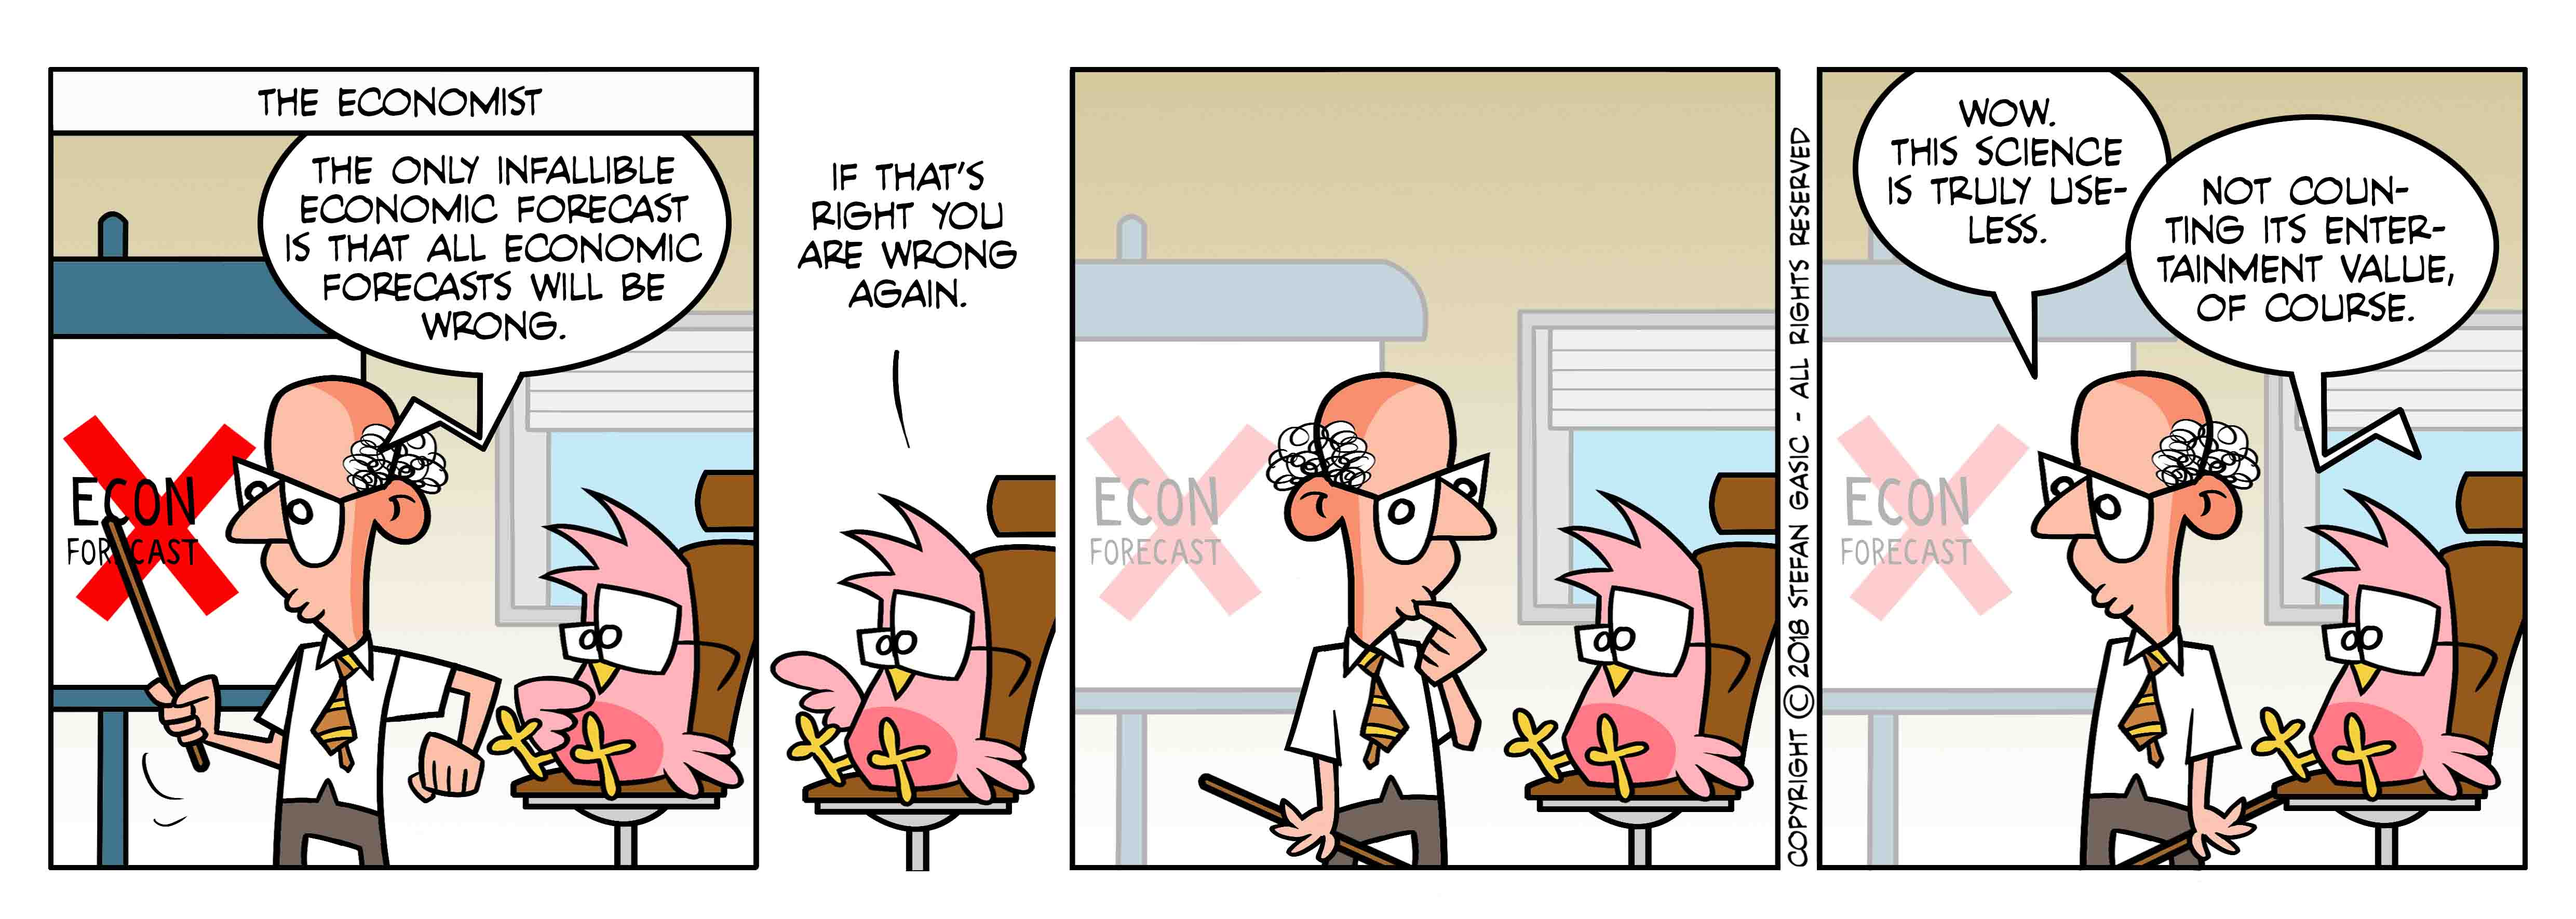
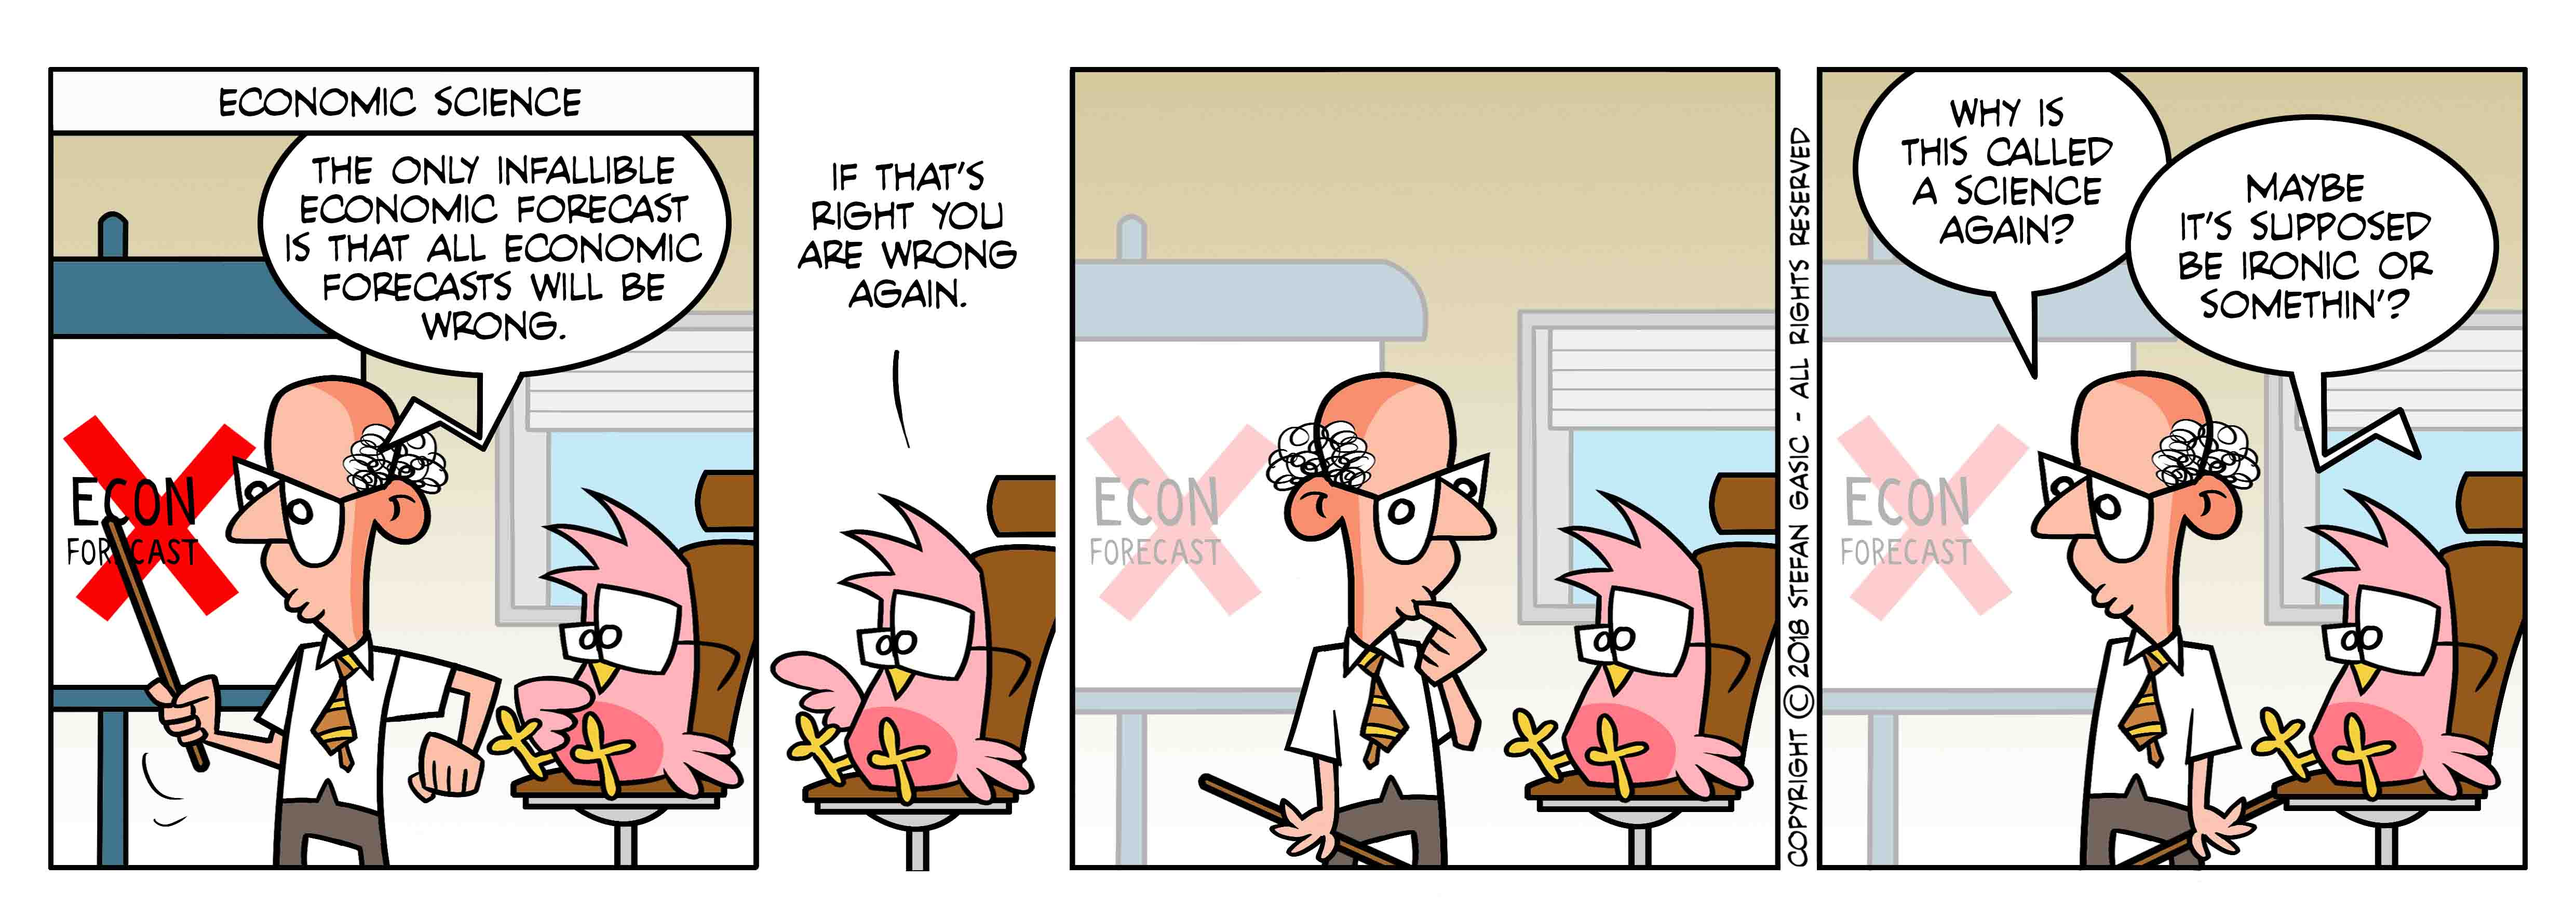
Added new strip and updated html and js accordingly.

Changed region(s): [[0.7186, 0.0932, 0.9686, 0.3729], [0.0625, 0.0932, 0.2499, 0.1243]]

diff --git a/myscripts.js b/myscripts.js
@@ -1,4 +1,4 @@
-var Strips = ["images/S254.jpg","images/S253.jpg","images/S252.jpg","images/S251.jpg","images/S250.jpg","images/S249.jpg","images/S248.jpg","images/S247.jpg","images/S246.jpg","images/S245.jpg","images/S244.jpg","images/S243.jpg","images/S242.jpg","images/S241.jpg","images/S240.jpg","images/S239.jpg","images/S238.jpg","images/S237.jpg","images/S236.jpg","images/S235.jpg","images/S234.jpg","images/S233.jpg","images/S232.jpg","images/S231.jpg","images/S230.jpg","images/S229.jpg","images/S228.jpg","images/S227.jpg","images/S226.jpg","images/S225.jpg","images/S224.jpg","images/S223.jpg","images/S222.jpg","images/S221.jpg","images/S220.jpg","images/S219.jpg","images/S218.jpg","images/S217.jpg","images/S216.jpg","images/S215.jpg","images/S214.jpg","images/S213.jpg","images/S212.jpg","images/S211.jpg","images/S210.jpg","images/S209.jpg","images/S208.jpg","images/S207.jpg","images/S206.jpg","images/S205.jpg","images/S204.jpg","images/S203.jpg","images/S202.jpg","images/S201.jpg","images/S200.jpg","images/S199.jpg","images/S198.jpg","images/S197.jpg","images/S196.jpg","images/S195.jpg","images/S194.jpg","images/S193.jpg","images/S192.jpg","images/S191.jpg","images/S190.jpg","images/S189.jpg","images/S188.jpg","images/S187.jpg","images/S186.jpg","images/S185.jpg","images/S184.jpg","images/S183.jpg","images/S182.jpg","images/S181.jpg","images/S180.jpg","images/S179.jpg","images/S178.jpg","images/S177.jpg","images/S176.jpg","images/S175.jpg","images/S174.jpg","images/S173.jpg","images/S172.jpg","images/S171.jpg","images/S170.jpg","images/S169.jpg","images/S168.jpg","images/S167.jpg","images/S166.jpg","images/S165.jpg","images/S164.jpg","images/S163.jpg","images/S162.jpg","images/S161.jpg","images/S160.jpg","images/S159.jpg","images/S158.jpg","images/S157.jpg","images/S156.jpg","images/S155.jpg","images/S154.jpg","images/S153.jpg","images/S152.jpg","images/S151.jpg","images/S150.jpg","images/S149.jpg","images/S148.jpg","images/S147.jpg","images/S146.jpg","images/S145.jpg","images/S144.jpg","images/S143.jpg","images/S142.jpg","images/S141.jpg","images/S140.jpg","images/S139.jpg","images/S138.jpg","images/S137.jpg","images/S136.jpg","images/S135.jpg","images/S134.jpg","images/S133.jpg","images/S132.jpg","images/S131.jpg","images/S130.jpg","images/S129.jpg","images/S128.jpg","images/S127.jpg","images/S126.jpg","images/S125.jpg","images/S124.jpg","images/S123.jpg","images/S122.jpg","images/S121.jpg","images/S120.jpg","images/S119.jpg","images/S118.jpg","images/S117.jpg","images/S116.jpg","images/S115.jpg","images/S114.jpg","images/S113.jpg","images/S112.jpg","images/S111.jpg","images/S110.jpg","images/S109.jpg","images/S108.jpg","images/S107.jpg","images/S106.jpg","images/S105.jpg","images/S104.jpg","images/S103.jpg","images/S102.jpg","images/S101.jpg","images/S100.jpg","images/S99.jpg","images/S98.jpg","images/S97.jpg","images/S96.jpg","images/S95.jpg","images/S94.jpg","images/S93.jpg","images/S92.jpg","images/S91.jpg","images/S90.jpg","images/S89.jpg","images/S88.jpg","images/S87.jpg","images/S86.jpg","images/S85.jpg","images/S84.jpg","images/S83.jpg","images/S82.jpg","images/S81.jpg","images/S80.jpg","images/S79.jpg","images/S78.jpg","images/S77.jpg","images/S76.jpg","images/S75.jpg","images/S74.jpg","images/S73.jpg","images/S72.jpg","images/S71.jpg","images/S70.jpg","images/S69.jpg","images/S68.jpg","images/S67.jpg","images/S66.jpg","images/S65.jpg","images/S64.jpg","images/S63.jpg","images/S62.jpg","images/S61.jpg","images/S60.jpg","images/S59.jpg","images/S58.jpg","images/S57.jpg","images/S56.jpg","images/S55.jpg","images/S54.jpg","images/S53.jpg","images/S52.jpg","images/S51.jpg","images/S50.jpg","images/S49.jpg","images/S48.jpg","images/S47.jpg","images/S46.jpg","images/S45.jpg","images/S44.jpg","images/S43.jpg","images/S42.jpg","images/S41.jpg","images/S40.jpg","images/S39.jpg","images/S38.jpg","images/S37.jpg","images/S36.jpg","images/S35.jpg","images/S34.jpg","images/S33.jpg","images/S32.jpg","images/S31.jpg","images/S30.jpg","images/S29.jpg","images/S28.jpg","images/S27.jpg","images/S26.jpg","images/S25.jpg","images/S24.jpg","images/S23.jpg","images/S22.jpg","images/S21.jpg","images/S20.jpg","images/S19.jpg","images/S18.jpg","images/S17.jpg","images/S16.jpg","images/S15.jpg","images/S14.jpg","images/S13.jpg","images/S12.jpg","images/S11.jpg","images/S10.jpg","images/S9.jpg","images/S8.jpg","images/S7.jpg","images/S6.jpg","images/S5.jpg","images/S4.jpg","images/S3.jpg","images/S2.jpg","images/S1.jpg"];
+var Strips = ["images/S256.jpg","images/S255.jpg","images/S254.jpg","images/S253.jpg","images/S252.jpg","images/S251.jpg","images/S250.jpg","images/S249.jpg","images/S248.jpg","images/S247.jpg","images/S246.jpg","images/S245.jpg","images/S244.jpg","images/S243.jpg","images/S242.jpg","images/S241.jpg","images/S240.jpg","images/S239.jpg","images/S238.jpg","images/S237.jpg","images/S236.jpg","images/S235.jpg","images/S234.jpg","images/S233.jpg","images/S232.jpg","images/S231.jpg","images/S230.jpg","images/S229.jpg","images/S228.jpg","images/S227.jpg","images/S226.jpg","images/S225.jpg","images/S224.jpg","images/S223.jpg","images/S222.jpg","images/S221.jpg","images/S220.jpg","images/S219.jpg","images/S218.jpg","images/S217.jpg","images/S216.jpg","images/S215.jpg","images/S214.jpg","images/S213.jpg","images/S212.jpg","images/S211.jpg","images/S210.jpg","images/S209.jpg","images/S208.jpg","images/S207.jpg","images/S206.jpg","images/S205.jpg","images/S204.jpg","images/S203.jpg","images/S202.jpg","images/S201.jpg","images/S200.jpg","images/S199.jpg","images/S198.jpg","images/S197.jpg","images/S196.jpg","images/S195.jpg","images/S194.jpg","images/S193.jpg","images/S192.jpg","images/S191.jpg","images/S190.jpg","images/S189.jpg","images/S188.jpg","images/S187.jpg","images/S186.jpg","images/S185.jpg","images/S184.jpg","images/S183.jpg","images/S182.jpg","images/S181.jpg","images/S180.jpg","images/S179.jpg","images/S178.jpg","images/S177.jpg","images/S176.jpg","images/S175.jpg","images/S174.jpg","images/S173.jpg","images/S172.jpg","images/S171.jpg","images/S170.jpg","images/S169.jpg","images/S168.jpg","images/S167.jpg","images/S166.jpg","images/S165.jpg","images/S164.jpg","images/S163.jpg","images/S162.jpg","images/S161.jpg","images/S160.jpg","images/S159.jpg","images/S158.jpg","images/S157.jpg","images/S156.jpg","images/S155.jpg","images/S154.jpg","images/S153.jpg","images/S152.jpg","images/S151.jpg","images/S150.jpg","images/S149.jpg","images/S148.jpg","images/S147.jpg","images/S146.jpg","images/S145.jpg","images/S144.jpg","images/S143.jpg","images/S142.jpg","images/S141.jpg","images/S140.jpg","images/S139.jpg","images/S138.jpg","images/S137.jpg","images/S136.jpg","images/S135.jpg","images/S134.jpg","images/S133.jpg","images/S132.jpg","images/S131.jpg","images/S130.jpg","images/S129.jpg","images/S128.jpg","images/S127.jpg","images/S126.jpg","images/S125.jpg","images/S124.jpg","images/S123.jpg","images/S122.jpg","images/S121.jpg","images/S120.jpg","images/S119.jpg","images/S118.jpg","images/S117.jpg","images/S116.jpg","images/S115.jpg","images/S114.jpg","images/S113.jpg","images/S112.jpg","images/S111.jpg","images/S110.jpg","images/S109.jpg","images/S108.jpg","images/S107.jpg","images/S106.jpg","images/S105.jpg","images/S104.jpg","images/S103.jpg","images/S102.jpg","images/S101.jpg","images/S100.jpg","images/S99.jpg","images/S98.jpg","images/S97.jpg","images/S96.jpg","images/S95.jpg","images/S94.jpg","images/S93.jpg","images/S92.jpg","images/S91.jpg","images/S90.jpg","images/S89.jpg","images/S88.jpg","images/S87.jpg","images/S86.jpg","images/S85.jpg","images/S84.jpg","images/S83.jpg","images/S82.jpg","images/S81.jpg","images/S80.jpg","images/S79.jpg","images/S78.jpg","images/S77.jpg","images/S76.jpg","images/S75.jpg","images/S74.jpg","images/S73.jpg","images/S72.jpg","images/S71.jpg","images/S70.jpg","images/S69.jpg","images/S68.jpg","images/S67.jpg","images/S66.jpg","images/S65.jpg","images/S64.jpg","images/S63.jpg","images/S62.jpg","images/S61.jpg","images/S60.jpg","images/S59.jpg","images/S58.jpg","images/S57.jpg","images/S56.jpg","images/S55.jpg","images/S54.jpg","images/S53.jpg","images/S52.jpg","images/S51.jpg","images/S50.jpg","images/S49.jpg","images/S48.jpg","images/S47.jpg","images/S46.jpg","images/S45.jpg","images/S44.jpg","images/S43.jpg","images/S42.jpg","images/S41.jpg","images/S40.jpg","images/S39.jpg","images/S38.jpg","images/S37.jpg","images/S36.jpg","images/S35.jpg","images/S34.jpg","images/S33.jpg","images/S32.jpg","images/S31.jpg","images/S30.jpg","images/S29.jpg","images/S28.jpg","images/S27.jpg","images/S26.jpg","images/S25.jpg","images/S24.jpg","images/S23.jpg","images/S22.jpg","images/S21.jpg","images/S20.jpg","images/S19.jpg","images/S18.jpg","images/S17.jpg","images/S16.jpg","images/S15.jpg","images/S14.jpg","images/S13.jpg","images/S12.jpg","images/S11.jpg","images/S10.jpg","images/S9.jpg","images/S8.jpg","images/S7.jpg","images/S6.jpg","images/S5.jpg","images/S4.jpg","images/S3.jpg","images/S2.jpg","images/S1.jpg"];
 
 var Current = 0;
 var myStrip = null;

diff --git a/index.html b/index.html
@@ -38,7 +38,7 @@
 		<div class="wrapper6">
 			<div class="wrap-item61"><img src="images/2017_Offshorecomics_web_Today's Offshorecomic.jpg"/></div>
 		</div>
-		<div class="wrap-item1"><img src="images/S254.jpg" id="Strip"/></div>
+		<div class="wrap-item1"><img src="images/S256.jpg" id="Strip"/></div>
 		<div class="wrapper3">
 			<div class="wrap-item3">
 			<button class="button" onClick="Last();">&lsaquo;&lsaquo;</button>
